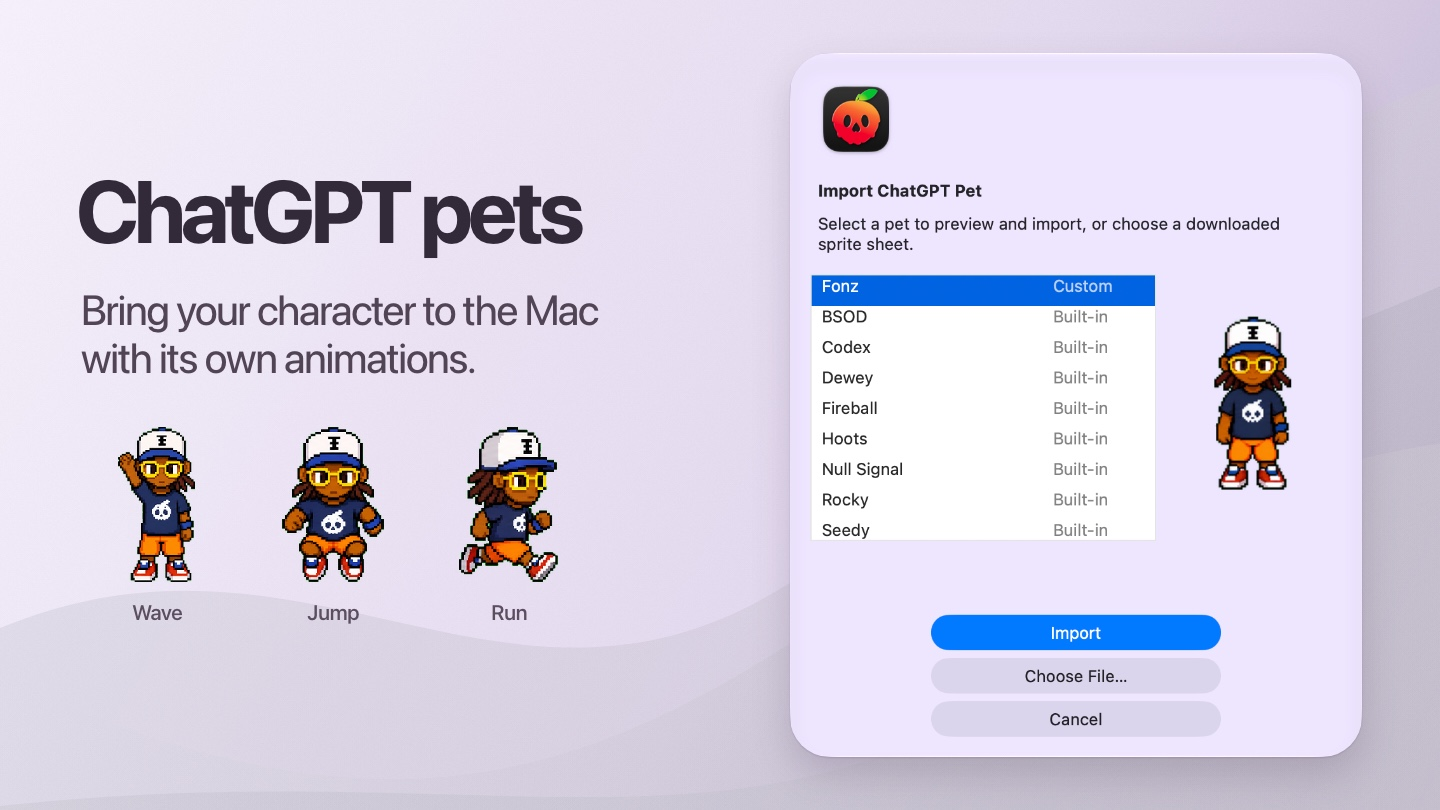
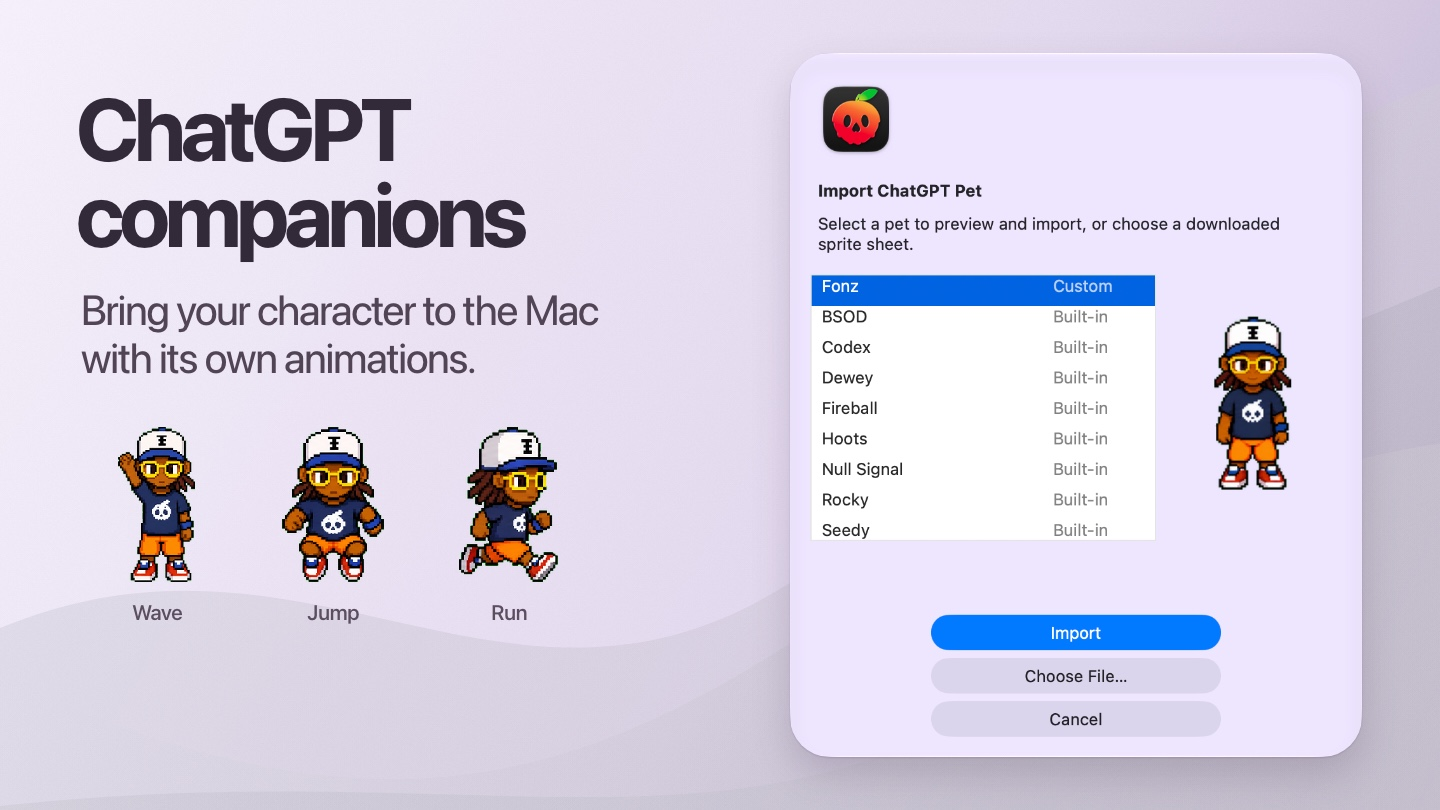
Title the custom pet gallery image ChatGPT companions

Changed region(s): [[0.0312, 0.1235, 0.4062, 0.3395]]

diff --git a/README.md b/README.md
@@ -14,7 +14,7 @@ Choose Apple Jack or Fonz, or bring a pet you designed in ChatGPT. Click your co
 
 **Bring your own character.** Open **Menu → Appearance & Character → Pets → Import ChatGPT Pet…** to preview and select a pet. If you have your own artwork in the ChatGPT pet sprite-sheet format, select **Choose File…** and import the PNG or WebP. Your character uses its own animations, including running when you drag it across the desktop. To keep new pets available as you add them, turn on **Automatically Import All ChatGPT Pets** in the same menu.
 
-![The Import ChatGPT Pet window previews Fonz as a custom pet. Beside it, Fonz waves, jumps, and runs using frames from his sprite sheet.](Docs/Screenshots/chatgpt-pets.jpg)
+![ChatGPT companions. Fonz is selected in the Import ChatGPT Pet window and shown waving, jumping, and running.](Docs/Screenshots/chatgpt-pets.jpg)
 
 **Chat in your pet’s speech bubble.** On a Mac that supports Apple Intelligence with ChatGPT enabled, open **Menu → AI Assistant → AI Setup Guide** and follow the steps to create the **Ask Apple Jack (ChatGPT)** shortcut. Then choose **Menu → AI Assistant → ChatGPT**, click your pet, and type a question or use **Speak to Jack**. You can use ChatGPT with any character, and you can use your custom pet with any of Jack’s assistants.
 
